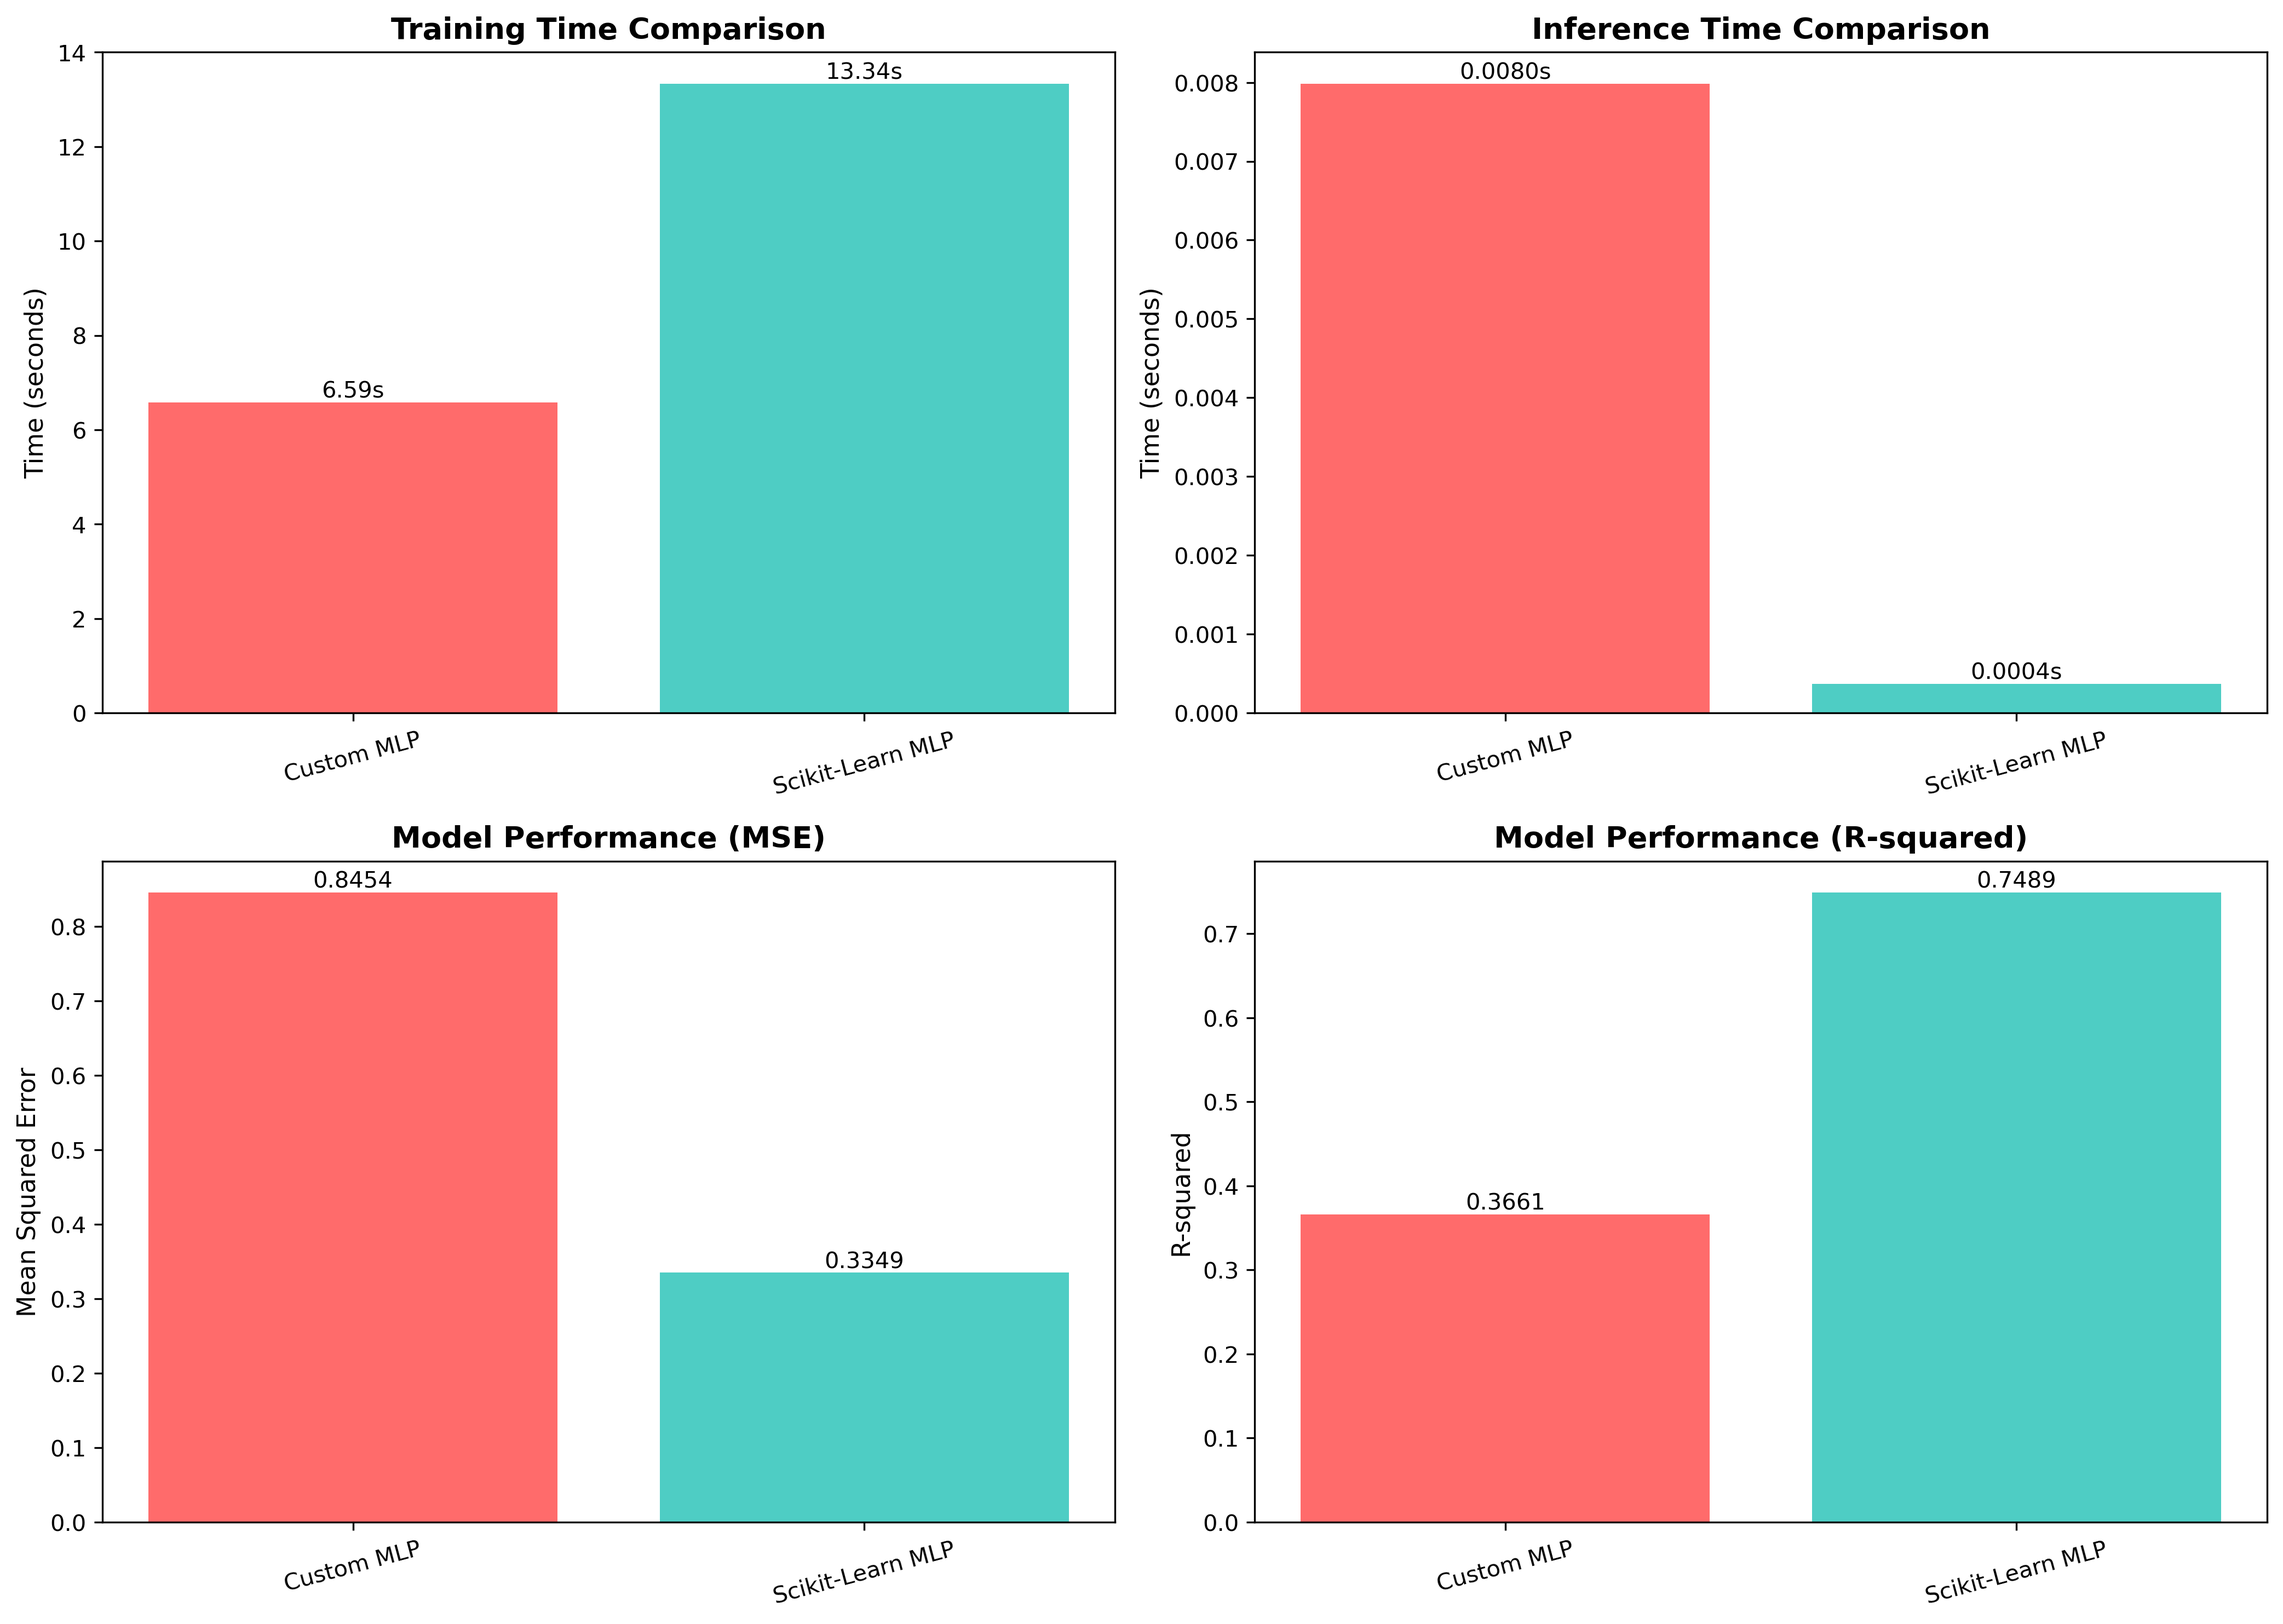
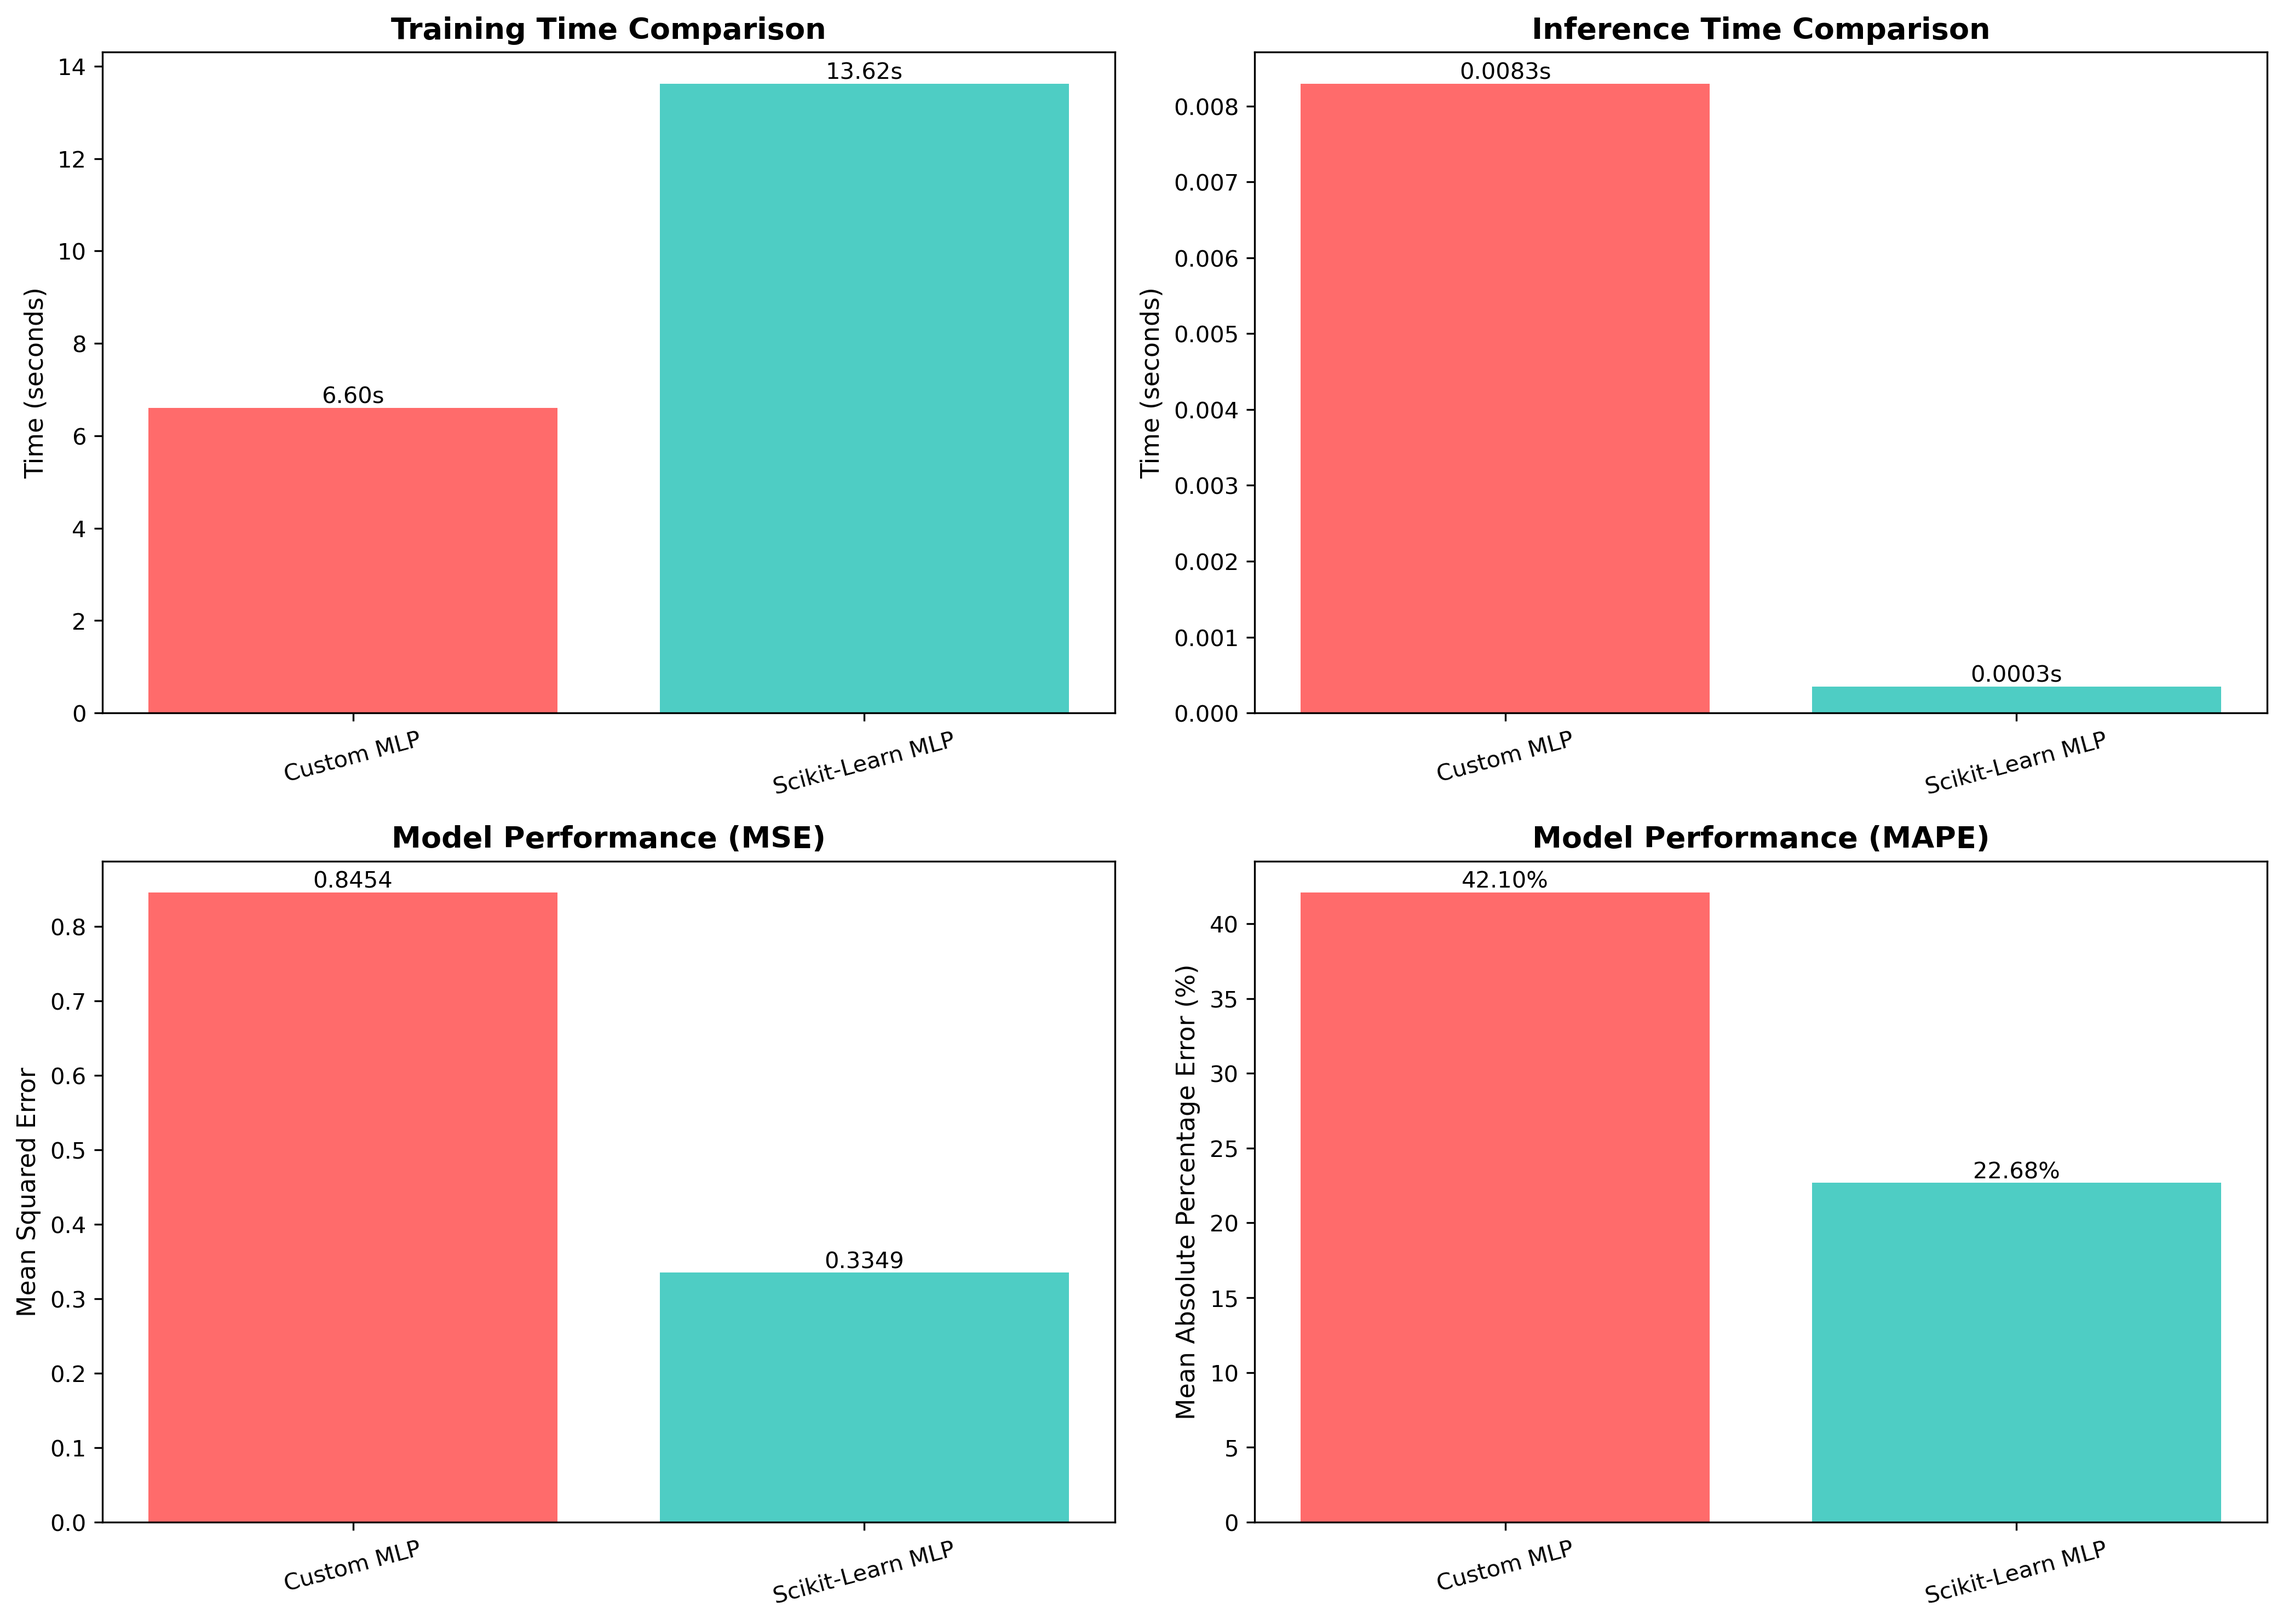
speed comps

diff --git a/python/run.py b/python/run.py
@@ -6,7 +6,16 @@ from sklearn.neural_network import MLPRegressor
 from mlp import MLP
 import c_wrapper
 from typing import Tuple, Optional, Dict, List, Any
-from sklearn.metrics import r2_score
+
+def mean_absolute_percentage_error(y_true: np.ndarray, y_pred: np.ndarray) -> float:
+    y_true = y_true.ravel()
+    y_pred = y_pred.ravel()
+    
+    epsilon = 1e-8 
+    
+    abs_percentage_errors = np.abs((y_true - y_pred) / np.maximum(np.abs(y_true), epsilon))
+    
+    return np.mean(abs_percentage_errors) * 100
 
 def custom_train_test_split(X: np.ndarray, y: np.ndarray, test_size: float = 0.1, random_state: Optional[int] = None) -> Tuple[np.ndarray, np.ndarray, np.ndarray, np.ndarray]:
     if random_state is not None:
@@ -55,7 +64,7 @@ def custom_train_model_with_history(mlp: MLP, X: np.ndarray, y: np.ndarray, epoc
     print("Training Complete")
     return loss_history
 
-def benchmark_custom_mlp(X_train: np.ndarray, y_train: np.ndarray, X_test: np.ndarray, y_test: np.ndarray, epochs: int = 500) -> Dict[str, Any]:
+def benchmark_custom_mlp(X_train: np.ndarray, y_train: np.ndarray, X_test: np.ndarray, y_test: np.ndarray, epochs: int = 100) -> Dict[str, Any]:
     print("\n" + "="*60)
     print("BENCHMARKING CUSTOM MLP")
     print("="*60)
@@ -81,19 +90,19 @@ def benchmark_custom_mlp(X_train: np.ndarray, y_train: np.ndarray, X_test: np.nd
     c_wrapper.free_py_matrix(y_test_c)
     c_wrapper.free_py_matrix(predictions_c)
     
-    r2 = r2_score(y_test, predictions)
+    mape = mean_absolute_percentage_error(y_test, predictions)
 
     print(f"Training Time: {train_time:.4f} seconds")
     print(f"Inference Time: {infer_time:.4f} seconds")
     print(f"MSE: {mse:.4f}")
-    print(f"R-squared: {r2:.4f}")
+    print(f"MAPE: {mape:.4f}%")
 
     return {
         'name': 'Custom MLP',
         'train_time': train_time,
         'infer_time': infer_time,
         'mse': mse,
-        'r2': r2,
+        'mape': mape,
         'total_time': train_time + infer_time,
         'loss_history': loss_history
     }
@@ -122,19 +131,20 @@ def benchmark_sklearn_mlp(X_train: np.ndarray, y_train: np.ndarray, X_test: np.n
     infer_time = time.time() - start_infer
     
     mse = np.mean((y_test.ravel() - predictions) ** 2)
-    r2 = r2_score(y_test.ravel(), predictions)
+    
+    mape = mean_absolute_percentage_error(y_test, predictions)
     
     print(f"Training Time: {train_time:.4f} seconds")
     print(f"Inference Time: {infer_time:.4f} seconds")
     print(f"MSE: {mse:.4f}")
-    print(f"R-squared: {r2:.4f}")
+    print(f"MAPE: {mape:.4f}%")
     
     return {
         'name': 'Scikit-Learn MLP',
         'train_time': train_time,
         'infer_time': infer_time,
         'mse': mse,
-        'r2': r2,
+        'mape': mape,
         'total_time': train_time + infer_time,
         'loss_history': []
     }
@@ -149,11 +159,10 @@ def plot_benchmark_results(results: List[Dict[str, Any]]):
     train_times = [r['train_time'] for r in results]
     infer_times = [r['infer_time'] for r in results]
     mses = [r['mse'] for r in results]
-    r2s = [r['r2'] for r in results]
+    mapes = [r['mape'] for r in results]
     
     fig, axes = plt.subplots(2, 2, figsize=(14, 10))
 
-    # Training Time Comparison (0, 0)
     ax1 = axes[0, 0]
     bars1 = ax1.bar(names, train_times, color=['#FF6B6B', '#4ECDC4'])
     ax1.set_ylabel('Time (seconds)', fontsize=11)
@@ -163,7 +172,6 @@ def plot_benchmark_results(results: List[Dict[str, Any]]):
         height = bar.get_height()
         ax1.text(bar.get_x() + bar.get_width()/2., height, f'{train_times[i]:.2f}s', ha='center', va='bottom', fontsize=10)
 
-    # Inference Time Comparison (0, 1)
     ax2 = axes[0, 1]
     bars2 = ax2.bar(names, infer_times, color=['#FF6B6B', '#4ECDC4'])
     ax2.set_ylabel('Time (seconds)', fontsize=11)
@@ -173,7 +181,6 @@ def plot_benchmark_results(results: List[Dict[str, Any]]):
         height = bar.get_height()
         ax2.text(bar.get_x() + bar.get_width()/2., height, f'{infer_times[i]:.4f}s', ha='center', va='bottom', fontsize=10)
 
-    # Model Performance (MSE) (1, 0)
     ax3 = axes[1, 0]
     bars3 = ax3.bar(names, mses, color=['#FF6B6B', '#4ECDC4'])
     ax3.set_ylabel('Mean Squared Error', fontsize=11)
@@ -183,15 +190,14 @@ def plot_benchmark_results(results: List[Dict[str, Any]]):
         height = bar.get_height()
         ax3.text(bar.get_x() + bar.get_width()/2., height, f'{mses[i]:.4f}', ha='center', va='bottom', fontsize=10)
 
-    # Model Performance (R-squared) (1, 1)
     ax4 = axes[1, 1]
-    bars4 = ax4.bar(names, r2s, color=['#FF6B6B', '#4ECDC4'])
-    ax4.set_ylabel('R-squared', fontsize=11)
-    ax4.set_title('Model Performance (R-squared)', fontsize=13, fontweight='bold')
+    bars4 = ax4.bar(names, mapes, color=['#FF6B6B', '#4ECDC4'])
+    ax4.set_ylabel('Mean Absolute Percentage Error (%)', fontsize=11)
+    ax4.set_title('Model Performance (MAPE)', fontsize=13, fontweight='bold')
     ax4.tick_params(axis='x', rotation=15)
     for i, bar in enumerate(bars4):
         height = bar.get_height()
-        ax4.text(bar.get_x() + bar.get_width()/2., height, f'{r2s[i]:.4f}', ha='center', va='bottom', fontsize=10)
+        ax4.text(bar.get_x() + bar.get_width()/2., height, f'{mapes[i]:.2f}%', ha='center', va='bottom', fontsize=10)
 
     plt.tight_layout()
     plt.savefig('mlp_benchmark_metrics.png', dpi=300, bbox_inches='tight')
@@ -221,10 +227,10 @@ def print_summary_table(results: List[Dict[str, Any]]):
     print("\n" + "="*95)
     print("BENCHMARK SUMMARY TABLE")
     print("="*95)
-    print(f"{'Model':<25} {'Train (s)':<15} {'Infer (s)':<15} {'MSE':<15} {'R-squared':<15} {'Total (s)':<15}")
+    print(f"{'Model':<25} {'Train (s)':<15} {'Infer (s)':<15} {'MSE':<15} {'MAPE (%)':<15} {'Total (s)':<15}")
     print("-"*95)
     for r in results:
-        print(f"{r['name']:<25} {r['train_time']:<15.4f} {r['infer_time']:<15.4f} {r['mse']:<15.4f} {r['r2']:<15.4f} {r['total_time']:<15.4f}")
+        print(f"{r['name']:<25} {r['train_time']:<15.4f} {r['infer_time']:<15.4f} {r['mse']:<15.4f} {r['mape']:<15.4f} {r['total_time']:<15.4f}")
     print("-"*95)
     if len(results) > 1:
         custom_train = results[0]['train_time']
